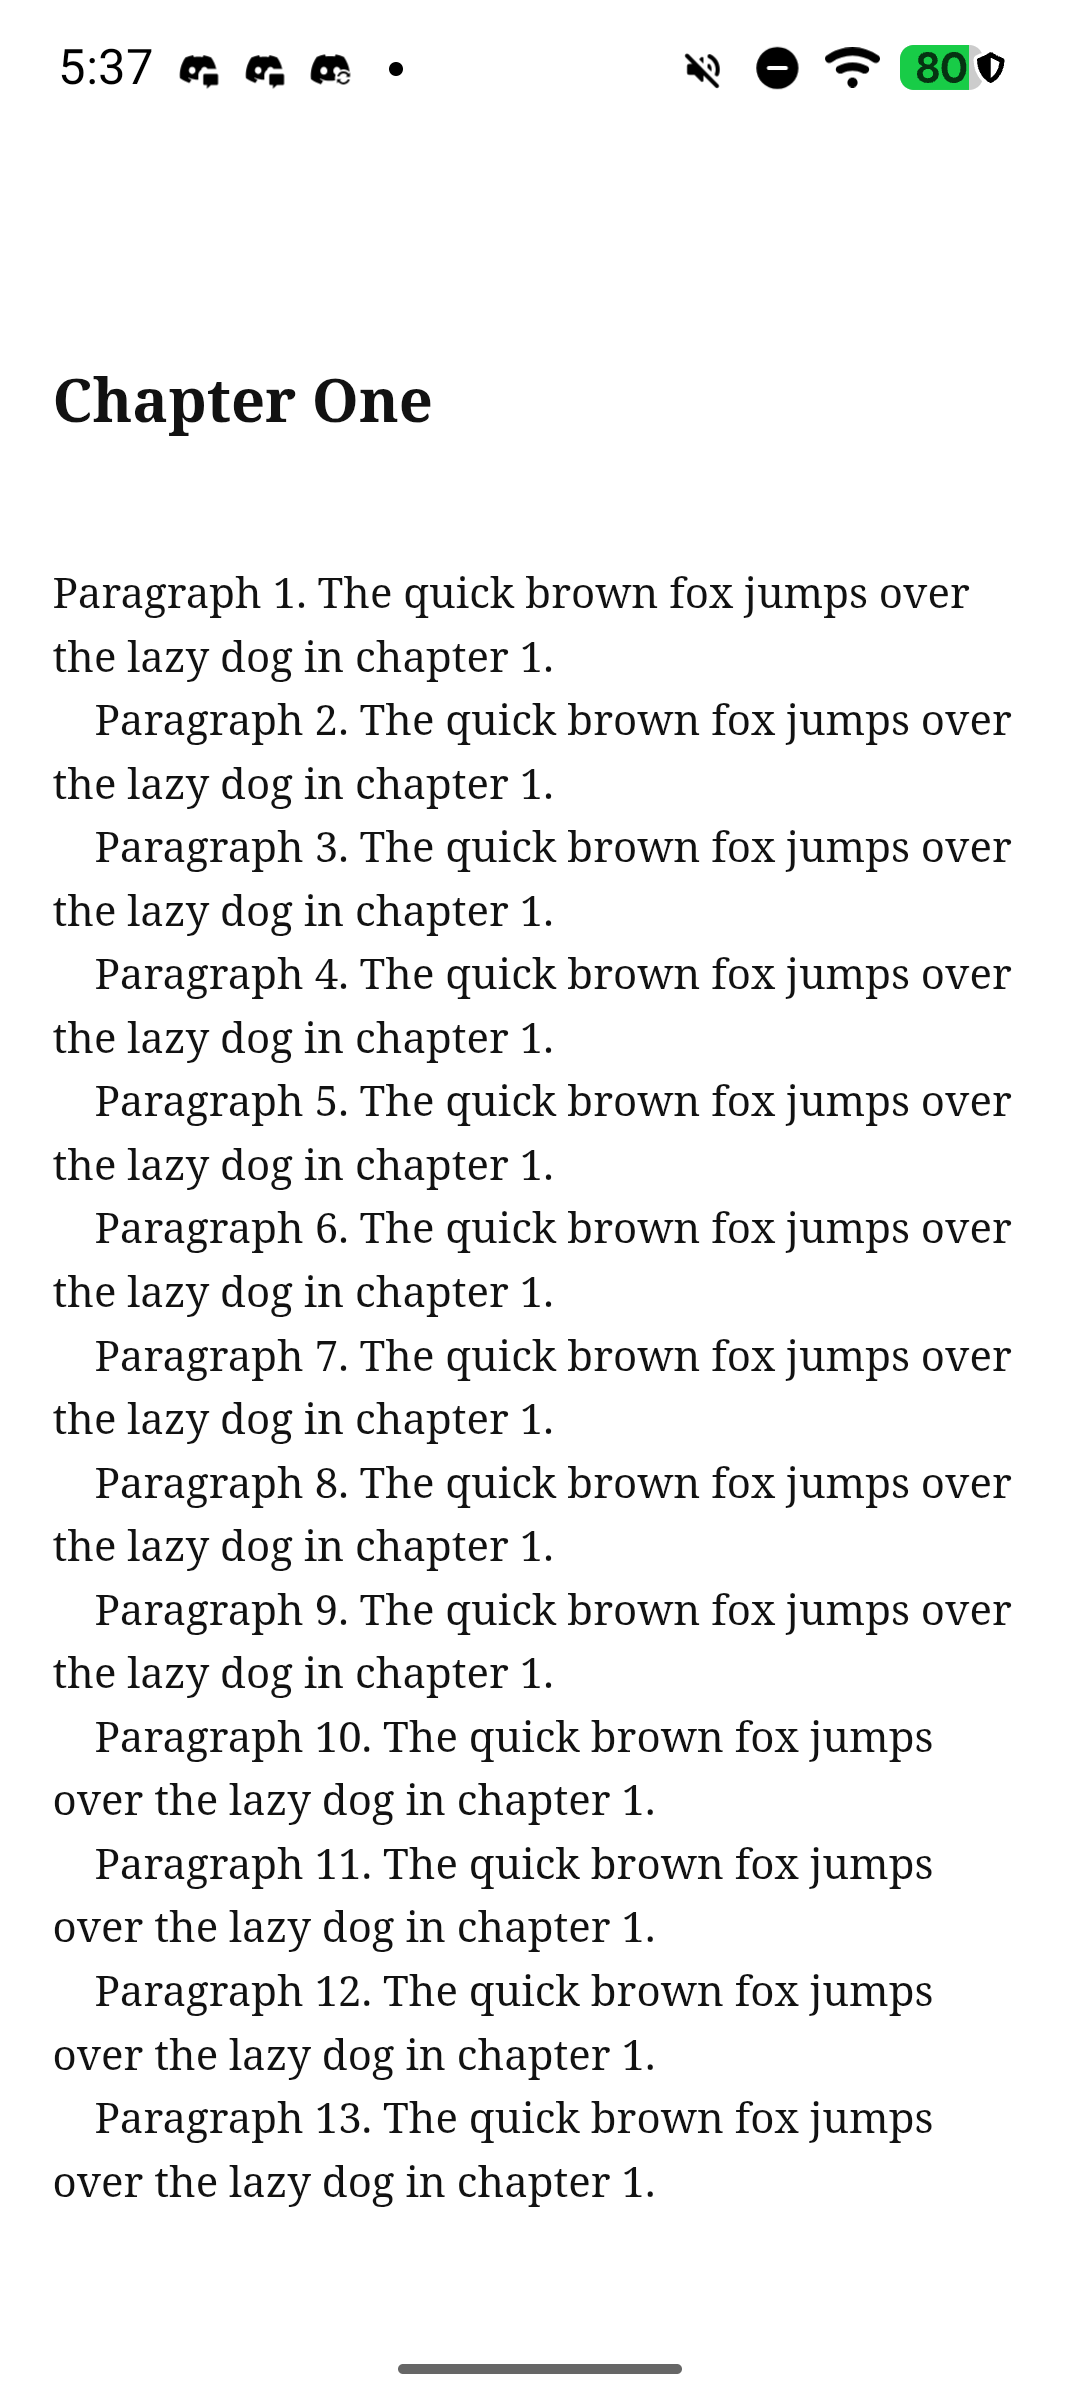
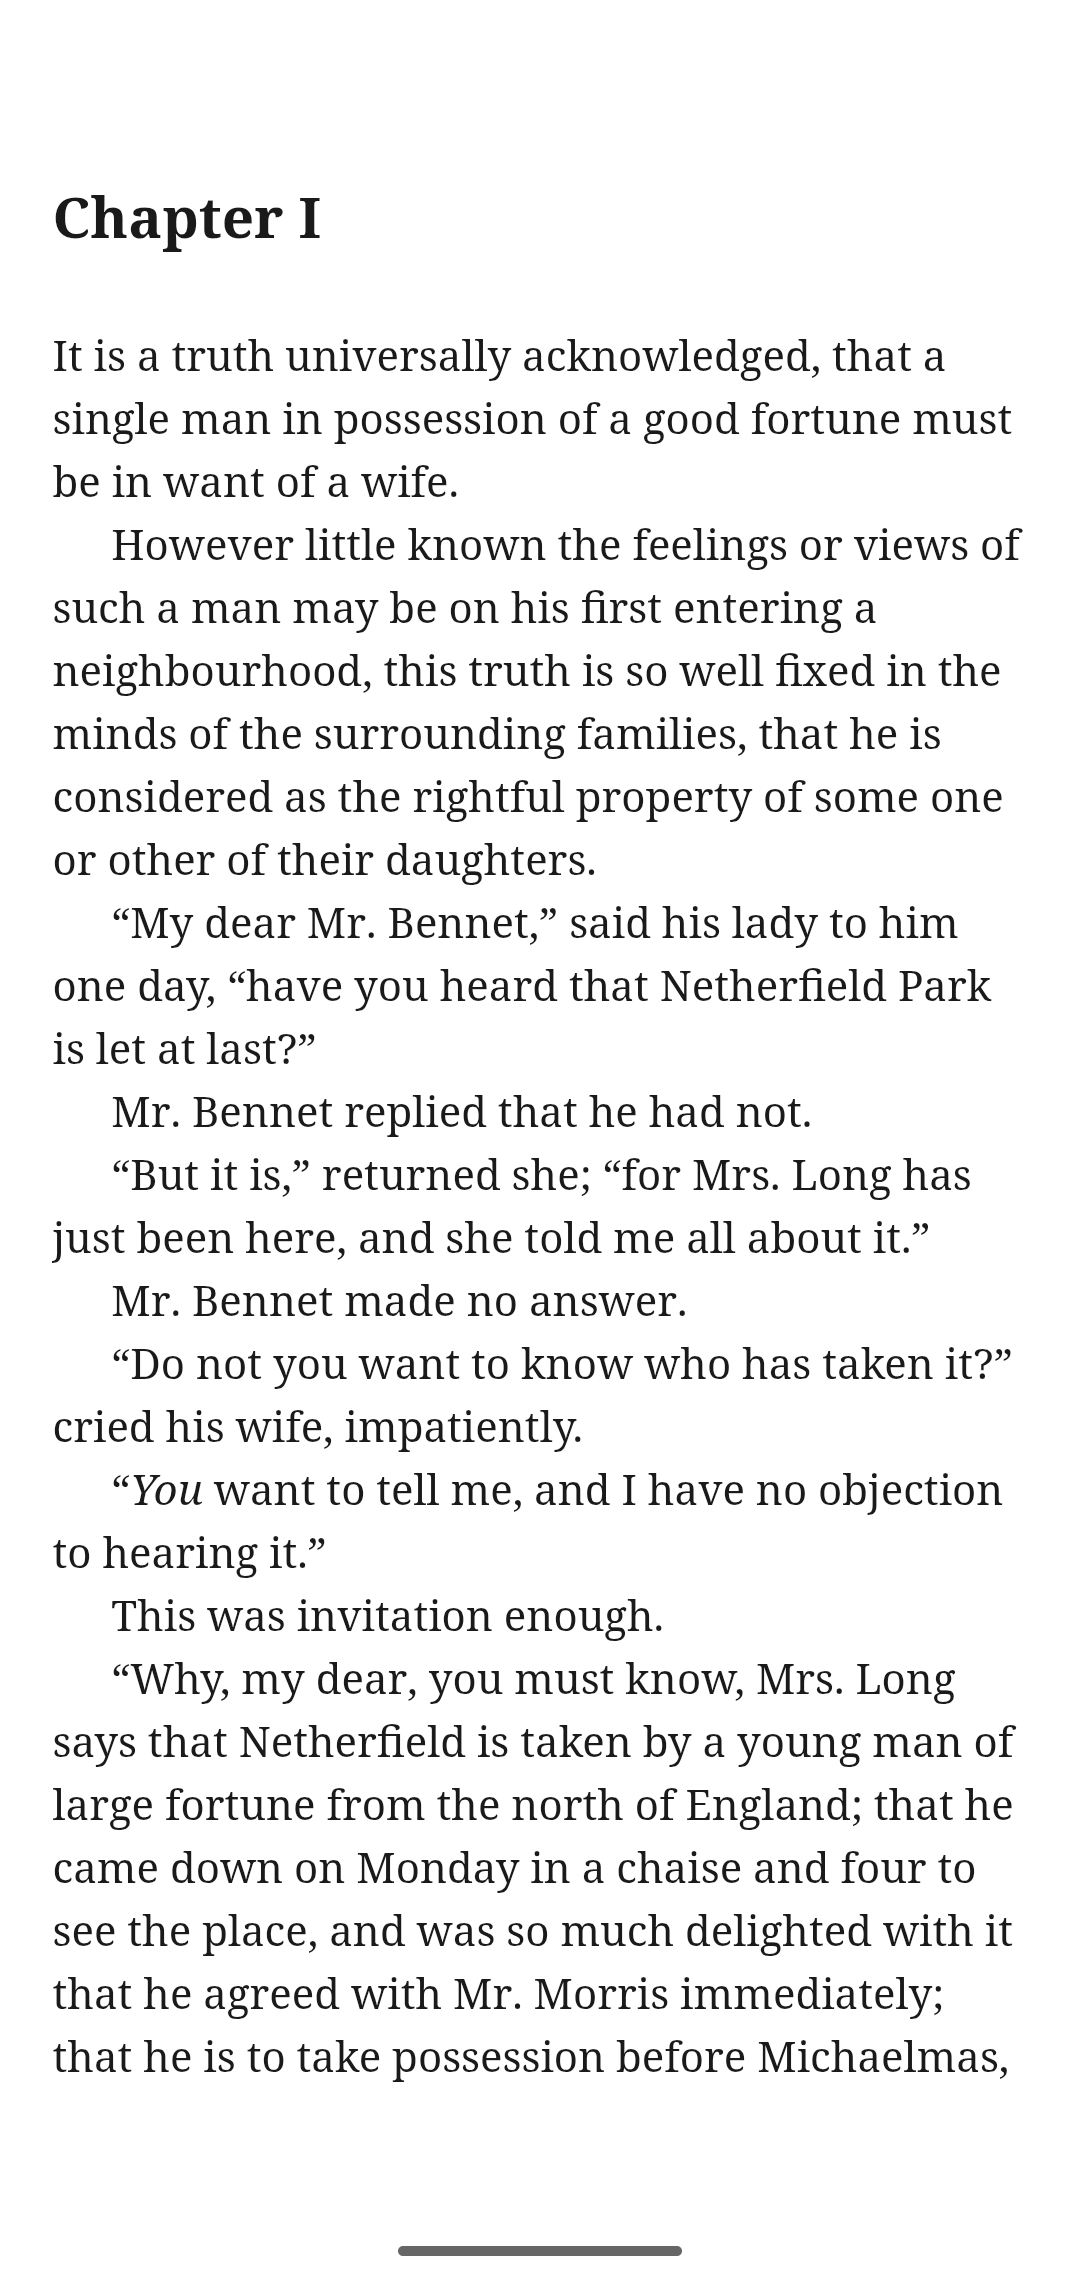
docs: refresh README screenshots from a real device
The library shot was the empty state ("Your library awaits", zero books) and
the reader shot used numbered pangram fixture text. Both now come from the
device with real content:

- Library: four imported EPUBs with genuine cover art, reading-status filters,
  and the collections header.
- Reader: chapter one of Pride and Prejudice, showing rendered italics,
  chapter-heading styling, and paragraph indents.

Both captures have the system status bar cropped out, and the Screenshots
section now uses labelled captions matching ShelfSync's README.

diff --git a/README.md b/README.md
@@ -19,10 +19,15 @@ own server.
 
 ## Screenshots
 
-<p align="center">
-  <img src="docs/assets/screenshot-library.png" alt="Library view" width="280" />
-  <img src="docs/assets/screenshot-reader.png" alt="Reader view" width="280" />
-</p>
+**Your library** — imported EPUBs with cover thumbnails, reading-status filters,
+and collections:
+
+<img src="docs/assets/screenshot-library.png" alt="Leafline library showing imported books with cover thumbnails and reading-status filters" width="320" />
+
+**The reader** — paginated text with real typography: chapter headings, italics,
+and paragraph indents, with reading chrome out of the way:
+
+<img src="docs/assets/screenshot-reader.png" alt="Leafline reader showing chapter one of Pride and Prejudice" width="320" />
 
 ## Features
 
